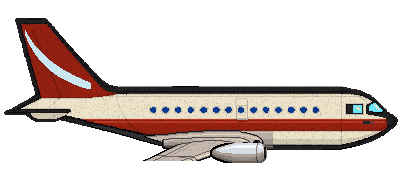
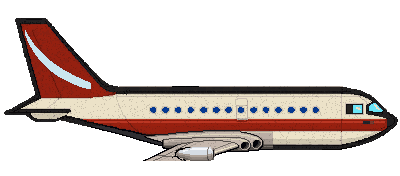
fix: the hangar's 'fitted!' card: the Comet's Pinion fuel tanks hang under the wing (not over the engines), the reversers are a grey cascade (not a black box), the ring goes round the new part only, and the bottom TAKE OFF row waits for OK (Oliver, 2026-11-16)
- tools/art/fix_comet_layers.py (one-off, reads the layers from c396845): the pod is cut out of the Pinion layer, shrunk to 70 % and hung under the outer wing; the reversers' black box is redrawn as a cascade.
- src/hangar.js payoff: the ring is measured against the bare plane (files.base). Against the picture before, every part and gadget already fitted counted as changed and the ring went round the whole plane (measured on a Comet with engine parts and gadgets).
- #hangar.paying hides the bottom TAKE OFF + reset row while the card is up; OK brings it back. The header TAKE OFF stays.
- tests/payoffcard.cjs (browser) with 2 plants; the art check fails on the old Pinion layer (shown by hand).

Changed region(s): [[0.42, 0.7955, 0.69, 0.9375]]

diff --git a/src/hangar.js b/src/hangar.js
@@ -130,7 +130,8 @@ export class FleetHangar {
     const el = document.createElement('div'); el.id = 'payoff'; el.className = 'payoff inbox';
     if (box) { box.hidden = true; box.insertAdjacentElement('afterend', el); } else document.body.appendChild(el);
     this.paying = true;
-    const fleetEl = $('hFleet'); if (fleetEl) fleetEl.classList.add('paying');   // the upgrade list below the display is HIDDEN until OK (the user, 2026-11-09: it stayed visible, some rows looked buyable); OK shows it from a fresh render
+    const fleetEl = $('hFleet'); if (fleetEl) fleetEl.classList.add('paying');
+    $('hangar').classList.add('paying');   // the bottom TAKE OFF / reset row is hidden too (Oliver, 2026-11-16: a TAKE OFF under 'fitted!' does not belong on that card; OK is its one action)   // the upgrade list below the display is HIDDEN until OK (the user, 2026-11-09: it stayed visible, some rows looked buyable); OK shows it from a fresh render
     el.innerHTML = `<div class="payoff-card"><div class="pay-frame"><div class="pay-plane"><img id="payBefore" alt="">${added.map(p => `<img class="pay-part" src="${p}" alt="">`).join('')}<i class="pay-spark"></i><b id="payMark" class="pay-mark"></b></div></div>
       <span id="payLabel" class="pay-label">${rails || !name ? tip('rail-payoff-label') : `NEW: ${name}!`}</span>
       ${bars.length ? `<div class="pay-bars">${statBarsHTML(bars)}</div>` : ''}
@@ -142,9 +143,13 @@ export class FleetHangar {
     // Where the new part is: each part layer is a whole repainted plane, so the part = the pixels that CHANGE when the
     // layer goes on (before vs after). Their box becomes a RING inside the picture (#payMark; the plane is never zoomed or cropped).
     const part = el.querySelector('.pay-part'), mark = $('payMark'), plane = el.querySelector('.pay-plane'), beforeImg = $('payBefore');
-    const measure = () => { if (!part || !part.naturalWidth || !beforeImg.naturalWidth || mark.dataset.done) return; mark.dataset.done = '1';
+    // The ring is measured against the BARE plane (files.base), not the picture before: a part layer is the whole plane with one part changed,
+    // so against a 'before' that already wears other parts and gadgets every one of them counted as changed and the ring went round the whole plane
+    // (measured 2026-11-16 on a Comet with engines and gadgets fitted: the Pinion ring covered the fuselage).
+    const bareImg = new Image(); bareImg.src = files.base;
+    const measure = () => { if (!part || !part.naturalWidth || !bareImg.naturalWidth || mark.dataset.done) return; mark.dataset.done = '1';
       const w = part.naturalWidth, h = part.naturalHeight, c = document.createElement('canvas'); c.width = w; c.height = h; const g = c.getContext('2d', { willReadFrequently: true });
-      g.drawImage(beforeImg, 0, 0, w, h); const A = g.getImageData(0, 0, w, h).data; g.drawImage(part, 0, 0); const B = g.getImageData(0, 0, w, h).data;
+      g.drawImage(bareImg, 0, 0, w, h); const A = g.getImageData(0, 0, w, h).data; g.drawImage(part, 0, 0); const B = g.getImageData(0, 0, w, h).data;
       let x0 = w, y0 = h, x1 = -1, y1 = -1;
       for (let y = 0; y < h; y++) for (let x = 0; x < w; x++) { const k = (y * w + x) * 4; if (Math.abs(A[k] - B[k]) + Math.abs(A[k + 1] - B[k + 1]) + Math.abs(A[k + 2] - B[k + 2]) + Math.abs(A[k + 3] - B[k + 3]) > 60) { if (x < x0) x0 = x; if (x > x1) x1 = x; if (y < y0) y0 = y; if (y > y1) y1 = y; } }
       if (x1 < 0) return;
@@ -156,7 +161,7 @@ export class FleetHangar {
     const hideBroken = img => { if (!img.naturalWidth) { img.style.display = 'none'; img.dataset.broken = '1'; } };
     const whenLoaded = img => new Promise(r => { if (img.complete && img.naturalWidth) return r();
       img.addEventListener('load', r, { once: true }); img.addEventListener('error', () => { hideBroken(img); r(); }, { once: true }); });
-    if (part) Promise.all([whenLoaded(part), whenLoaded(beforeImg)]).then(measure);
+    if (part) Promise.all([whenLoaded(part), whenLoaded(bareImg)]).then(measure);
     // The label arrow, placed over the part once the zoom has settled (the user, 2026-10-28: the payoff must not be flat).
     // The label sits in its own row BELOW the picture frame, under the ring (the user: at 320 the label lay over the middle of the plane's body). The row is reserved in CSS (.payoff.inbox:not(.nopart) .pay-frame margin-bottom).
     const label = () => { const lab = $('payLabel'), card = el.querySelector('.pay-frame'); if (!lab || !el.isConnected) return;
@@ -170,13 +175,13 @@ export class FleetHangar {
     // pictures are in (6 s at most), and the zoom + label need the measured part; without it, the plane shows flat (no zoom).
     const settle = () => { if (!el.isConnected) return; if (added.length && mark.dataset.done) label(); else { el.classList.add('nopart'); el.classList.add('labelled'); }
       if (rails && this.ui.tour) this.ui.tour.payoffOk(); };   // the rails: ring OK (the rest of the page is live)
-    const pics = [whenLoaded(beforeImg), ...(part ? [whenLoaded(part)] : [])];
+    const pics = [whenLoaded(beforeImg), ...(part ? [whenLoaded(part), whenLoaded(bareImg)] : [])];
     Promise.race([Promise.all(pics).then(() => part && measure()), new Promise(r => setTimeout(r, 6000))]).then(() => {
       el.querySelectorAll('.pay-part, #payBefore').forEach(img => { if (img.getAttribute('src')) hideBroken(img); });   // (the 6 s fallback too)
       if (part && !mark.dataset.done) el.classList.add('nopart');
       setTimeout(() => { if (el.isConnected) { el.classList.add('arrive'); this.ui.sfx.reveal && this.ui.sfx.reveal(); animateBars(el); setTimeout(settle, 700); } }, 600); });   // the part arrives (ringed, sparkle on it; no zoom), then the label
     // Ending the payoff: OK, or leaving the hangar mid-payoff (the plane build's review: it stayed parked until OK).
-    this.endPayoff = () => { el.remove(); if (box) box.hidden = false; const fl = $('hFleet'); if (fl) fl.classList.remove('paying'); this.paying = false; this.renderLater = false; this.endPayoff = () => {}; };
+    this.endPayoff = () => { el.remove(); if (box) box.hidden = false; const fl = $('hFleet'); if (fl) fl.classList.remove('paying'); $('hangar').classList.remove('paying'); this.paying = false; this.renderLater = false; this.endPayoff = () => {}; };
     $('payOk').onclick = () => { this.ui.sfx.tick(); this.endPayoff();
       if (toFly) this.ui.go('fly'); else { this.render(); if (this.ui.tour) setTimeout(() => this.ui.tour.maybe('hangar'), 300); } };   // stay: the rails' next step (TAKE OFF) is in the hangar
   }

diff --git a/style.css b/style.css
@@ -1100,6 +1100,7 @@ h2.sub { margin-top: -4px; }
 .bk-line { margin: 2px 0; } .bk-warn { color: #b02a1a; margin-top: 8px; } .gear-last { text-align: center; margin: 8px 0 0; }
 /* The hangar purchase display (src/hangar.js payoff): while it is open the rest of the hangar list is hidden; OK shows it again from a fresh render. */
 #hFleet.paying > :not(#payoff) { display: none; }
+#hangar.paying .panel > .buttons { display: none; }   /* the bottom TAKE OFF + reset row waits for OK too (Oliver, 2026-11-16) */
 /* CROSSINGS V2 (research/DESIGN-CROSSINGS-V2.md): the HOME box 'NEXT CROSSING' (src/crossingview.js boxView): the route and how hard, three ticks that fill in, one plain line. No distance. */
 .hub-cross { text-align: left; border: 2px solid var(--ink, #1b1b2f); border-radius: 4px; padding: 3px 6px; box-sizing: border-box; width: 100%; background: rgba(255,255,255,0.55); cursor: pointer; }
 .hub-cross .rc-label { margin: 0 0 1px; text-align: left; }

diff --git a/tools/art/fix_comet_layers.py b/tools/art/fix_comet_layers.py
@@ -1,0 +1,30 @@
+# One-off redraw of two Comet hangar layers (Oliver, 2026-11-16: "when adding the pinion here it looks like it's weirdly on the engine").
+#   pinion:    the fuel pod sat over the engine intakes at the wing root; it is cut out of the layer, shrunk to 70 % and hung
+#              under the outer wing (x 172, y 147), so the intakes show again and the pod reads as a wing tank.
+#   reversers: a solid black box at the nozzle (rows 136-145, columns 163-174) becomes a grey cascade (dark outline, light slats).
+# Reads the ORIGINAL layers from git (c396845), so running it again gives the same files. Run from the repo root:
+#   python3 tools/art/fix_comet_layers.py
+import io, subprocess
+from PIL import Image, ImageChops
+REV = 'c396845'
+git = lambda path: Image.open(io.BytesIO(subprocess.check_output(['git', 'show', f'{REV}:{path}']))).convert('RGBA')
+base = git('assets/ui/plane-hangar-comet.png')
+
+# pinion
+p = git('assets/ui/upgrades/hangar-comet-pinion.png')
+d = ImageChops.difference(base, p).convert('L').point(lambda v: 255 if v > 0 else 0)
+bb = d.getbbox(); pod = Image.new('RGBA', base.size, (0, 0, 0, 0)); pod.paste(p, (0, 0), d); pod = pod.crop(bb)
+cols = [sum(1 for y in range(pod.height) if pod.getpixel((x, y))[3] > 0) for x in range(pod.width)]
+pod = pod.crop((next(i for i, c in enumerate(cols) if c >= 6), 0, pod.width, pod.height))   # the pod body only (not the faint wing pixels at its left)
+pod = pod.resize((round(pod.width * 0.7), round(pod.height * 0.7)), Image.NEAREST)
+out = base.copy(); out.alpha_composite(pod, (172, 147)); out.save('assets/ui/upgrades/hangar-comet-pinion.png')
+
+# reversers
+r = git('assets/ui/upgrades/hangar-comet-reversers.png'); px = r.load()
+x0, y0, x1, y1 = 163, 136, 174, 145
+OUT, MID, LIT = (58, 52, 50, 255), (150, 140, 133, 255), (196, 188, 178, 255)
+for x in range(x0, x1 + 1):
+    for y in range(y0, y1 + 1):
+        px[x, y] = OUT if x in (x0, x1) or y in (y0, y1) or (x - x0) % 3 == 0 else LIT if (x - x0) % 3 == 1 else MID
+r.save('assets/ui/upgrades/hangar-comet-reversers.png')
+print('wrote hangar-comet-pinion.png, hangar-comet-reversers.png')
